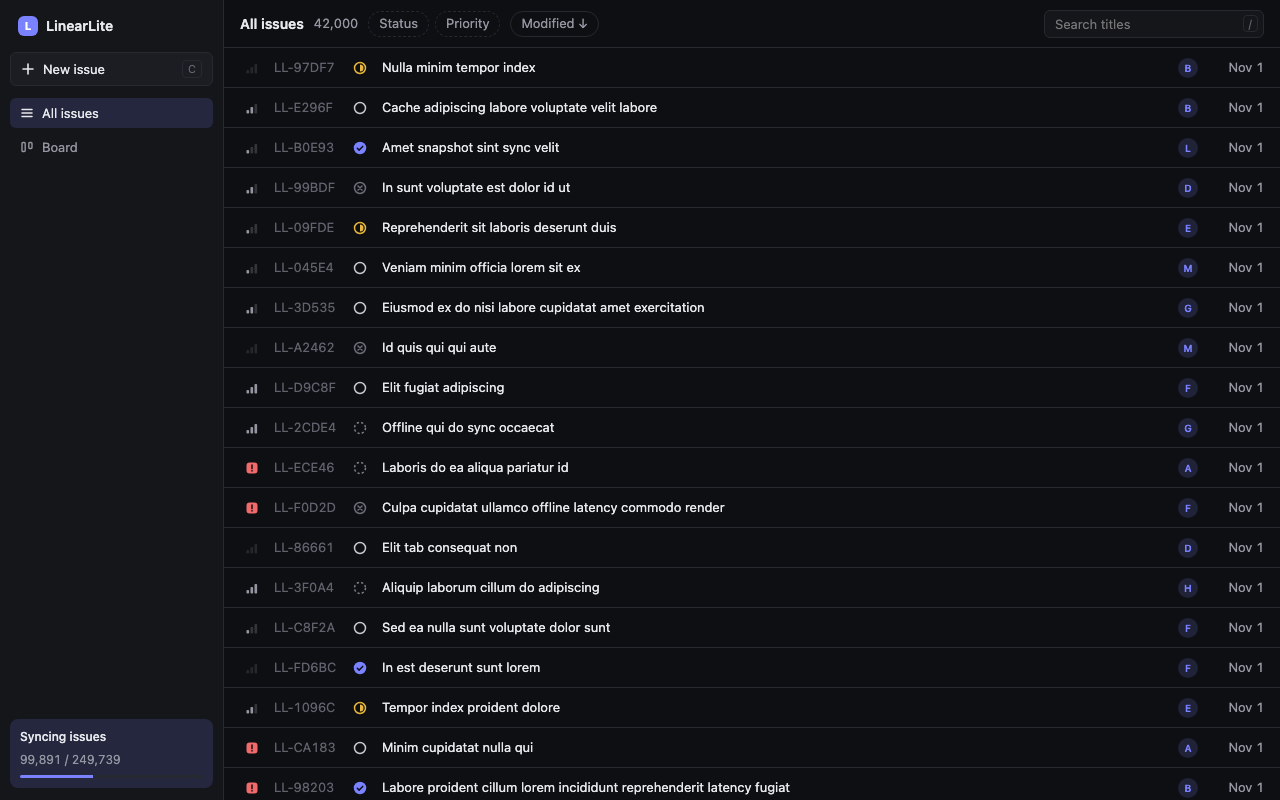
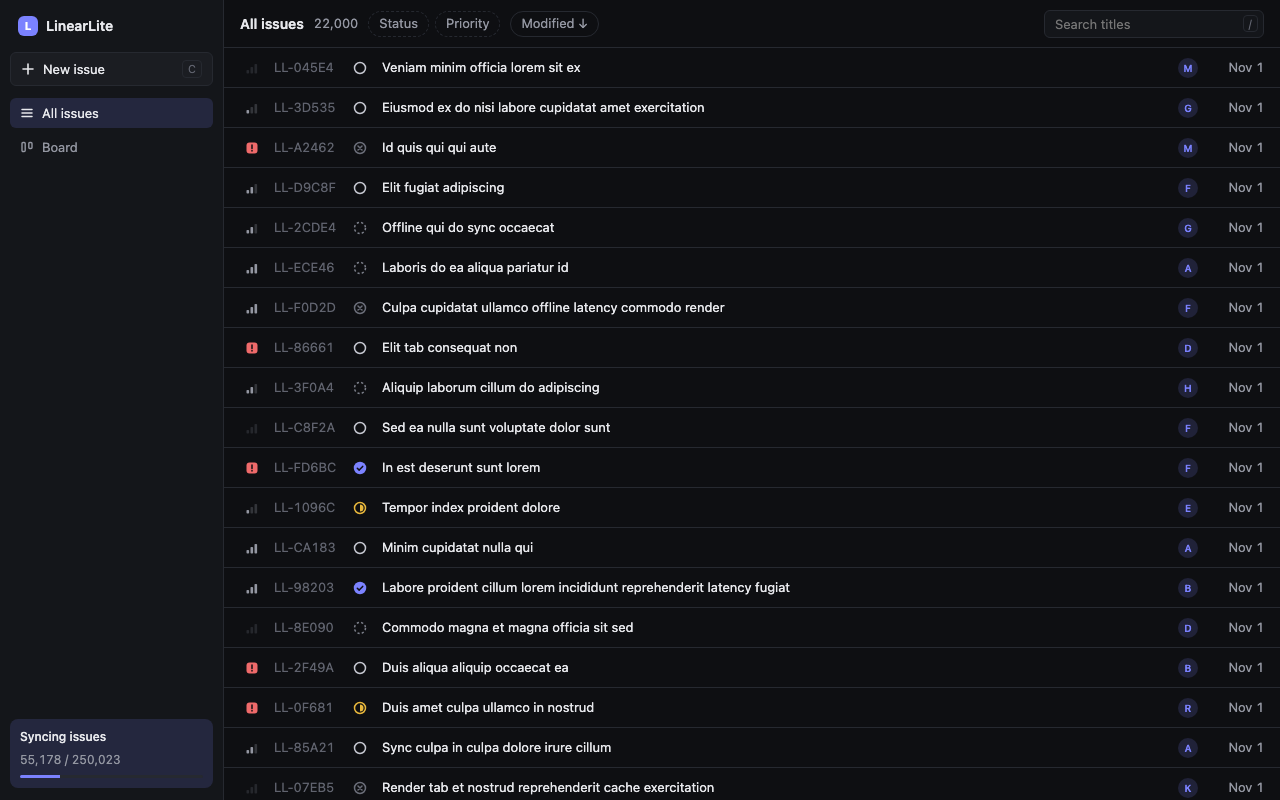
docs(linearlite): describe on-demand issues and measure them against main and SQLite
DESIGN.md states the index set and what each index serves and costs,
how counts, write chunking and deep scroll work, and the 100k results
for main (kv adapter, eager), this design and TanStack's SQLite
collection, with what limits each number and where this design is
slower. The result files hold the raw runs, commands and machine load;
the screenshots are retaken on the production build.

diff --git a/examples/linearlite/DESIGN.md b/examples/linearlite/DESIGN.md
@@ -7,15 +7,17 @@ of 100,000 issues with 0–1 comment each.
 
 ## The shape in one paragraph
 
-kv on OPFS holds the whole replica in every browser. TanStack DB collections are the read model: issue summaries
-are in memory in full, descriptions and comments only while a screen shows them. Every write, a local edit or a
-row from the server, is one kv read-modify-write (`utils.transact`), so there is one write path and one merge
-rule. Each row carries its own unsent edits (`dirty`), which is the "not synced" mark and the conflict guard. The
-outbox is those rows, found by a live query over `dirty` issues and, because bodies and comments load on demand and
-cannot be scanned, by small eager `outbox` marks naming the ones with unsent edits. One tab per browser, elected with Web Locks, talks to the server. The server is SQLite where every
-row carries the global version that last changed it, so "what changed since V" is an index scan, not a log.
+kv on OPFS holds the whole replica in every browser, as `@opfs-lsm/docstore` collections with declared indexes.
+TanStack DB collections are the read model, and every one that holds rows of a stream loads on demand: a screen's
+live queries read the rows they show through those indexes, and nothing else is in memory. Counts are not
+queries over memory either: the list total and the board's column counts count index entries in docstore. Every
+write, a local edit or a row from the server, is one read-modify-write (`utils.transact`), so there is one write
+path and one merge rule. Each row carries its own unsent edits (`dirty`), which is the "not synced" mark and the
+conflict guard, and a `pending: true` that a sparse index lists, so the outbox is a range read. One tab per
+browser, elected with Web Locks, talks to the server. The server is SQLite where every row carries the global
+version that last changed it, so "what changed since V" is an index scan, not a log.
 
-## Why the data is split (measured)
+## Why nothing is eager (measured)
 
 `bench/spike-100k.txt`: five alternating cold opens per side, 100k issues, fresh Chrome process each time.
 
@@ -24,10 +26,11 @@ row carries the global version that last changed it, so "what changed since V" i
 | issue summaries only | 947 ms (776–1052) | 238 MB |
 | summaries + descriptions + 49,734 comments | 1456 ms (1351–5623) | 437 MB |
 
-Bodies and comments are 59 of the 81 MB of JSON, and nobody filters or sorts by them. They stay in kv and load by
-key when a screen opens them. A profile of the summaries-only open shows no single limiter: TanStack ingest and
-BTree index builds (~150 ms), kv's SST merge scan (~85 ms), JSON decode (~74 ms), GC (~50 ms), and ~210 ms waiting
-on OPFS reads.
+An eager collection reads, decodes and indexes every row before the list can paint, and holds them all. A
+profile of the summaries-only open shows no single limiter: TanStack ingest and BTree index builds (~150 ms), kv's
+SST merge scan (~85 ms), JSON decode (~74 ms), GC (~50 ms), and ~210 ms waiting on OPFS reads. Every term grows
+with the replica. On demand, a warm start reads one index page of the list's 100 rows and counts 100,000 index
+entries; see [Measured](#measured).
 
 ## Data
 
@@ -40,10 +43,13 @@ export type PriorityCode = 0 | 1 | 2 | 3 | 4;
 
 /** Field name -> local edit clock of an edit the server has not acknowledged. Absent = clean. */
 export type Clocks = Readonly<Record<string, number>>;
-/** `version` is the server version of the last server state merged in; 0 = never reached the server. */
-export type Synced = { readonly version: number; readonly dirty?: Clocks };
+/**
+ * `version` is the server version of the last server state merged in; 0 = never reached the server.
+ * `pending` is `true` exactly when `dirty` is present: no index can hold an object, a sparse one can hold `true`.
+ */
+export type Synced = { readonly version: number; readonly dirty?: Clocks; readonly pending?: true };
 
-export type Issue = Synced & {               // eager, ~220 B
+export type Issue = Synced & {               // on demand, ~220 B
   readonly id: string; title: string; status: StatusCode; priority: PriorityCode; kanbanorder: string;
   readonly username: string; readonly created: number; modified: number; deleted: boolean;
 };
@@ -54,8 +60,6 @@ export type Comment = Synced & {                                            // o
   readonly created: number; deleted: boolean;
 };
 export type Stream = "issues" | "bodies" | "comments";
-/** Eager, one per body or comment with unsent edits; the row itself still holds `dirty`. */
-export type OutboxMark = { readonly id: string; readonly stream: "bodies" | "comments"; readonly rowKey: string; readonly nonce: string };
 /** One eager row per browser (`id: "sync"`), written by the leader, read by every tab's status bar. */
 export type SyncState = {
   readonly id: "sync"; epoch: string | null; cursors: Record<Stream, number>; head: number;
@@ -75,17 +79,23 @@ land between the read and the write, in this tab or another. Callers never use `
 
 | write | merge function (pure, `src/domain/merge.ts`) |
 |---|---|
-| local edit (`setStatus`, `move`, `rename`, …) | `applyLocal(row, patch, clock)`: patch the fields, stamp `dirty[f] = clock` |
+| local edit (`setStatus`, `move`, `rename`, …) | `applyLocal(row, patch, clock)`: patch the fields, stamp `dirty[f] = clock` and `pending` |
 | server row from a pull | `mergeIncoming(local, incoming)`: drop if `incoming.version <= local.version`; else take incoming, but keep every `dirty` field's local value |
-| push acknowledgment | `mergeIncoming(local, row, ackedClocks)`: a dirty field whose clock equals the acked one is confirmed and cleared; a field edited again in flight stays dirty |
+| push acknowledgment | `mergeIncoming(local, row, ackedClocks)`: a dirty field whose clock equals the acked one is confirmed and cleared; a field edited again in flight stays dirty; `pending` goes with the last dirty field |
 
 Each is idempotent: replaying a page or an ack converges to the same row. So a crash between writing a page and
 advancing its cursor costs one re-pull, and no cross-collection transaction is needed. Deletes are
 `deleted = true` plus `dirty`; the acked tombstone becomes a kv delete.
 
-Hypothesis to check before the UI relies on it: a `transact` from a click shows in the same tab's live query
-within one frame (the adapter applies kv's change event before the promise resolves). If it does not, the
-commands wrap `transact` in a TanStack `createTransaction` for an optimistic overlay.
+A `transact` from a click shows in the same tab's list with no optimistic overlay: edit to live query 3.1 ms
+p50, to DOM 3.5 ms (`visible`, production build, 60 edits).
+
+**Write chunking.** kv caps one write batch at 10,000 ops. A docstore write of a row is one op for the row plus,
+per index, at most a delete of its old entry and a put of its new one, so a row costs at most `1 + 2 × indexes`
+ops. A pulled page of 2,000 rows is merged in slices of `floor(10000 / (1 + 2 × indexes))` rows, each its own
+`transact`: 666 issues (seven indexes), 3,333 bodies (one), 2,000 comments (two). The slice size is read from the
+collection's `indexes`, so adding an index cannot push a page over the cap. Slicing loses nothing a crash could
+not already lose: a merge is idempotent and the cursor advances only after the whole page.
 
 ## Sync
 
@@ -101,24 +111,27 @@ PushOp = { stream, id, fields: Record<string, unknown>, clocks: Clocks, create?:
 - **Leader.** Every tab calls `navigator.locks.request("linearlite:sync", …)` and holds it for its life. The holder
   runs the loop; the next tab takes over from the cursors in kv when it closes. Other tabs only write local edits.
   kv's change feed is the bus between tabs; there is no tab-to-tab messaging.
-- **Loop.** On start, on every SSE hint, on a local edit (a live query over `dirty` rows) and on `online`:
+- **Loop.** On start, on every SSE hint, on a local edit (a live query over `pending` rows) and on `online`:
   push every dirty row (fields = current values of dirty fields; a row with `version 0` pushes all fields with
   `create`), then pull each stream until `more` is false. Push before pull, so acked fields merge before the pull
   brings the same rows. Failure: back off 1 s → 30 s, mark `online: false`.
-- **Outbox marks.** A command writes the mark, then the row. The leader reads the marked rows, pushes them, and
-  removes a mark only if its `nonce` is unchanged, so an edit made while the push was in flight keeps its mark. A
-  mark on a clean row (a crash between the two writes) pushes nothing and is removed.
+- **Outbox.** Issues, bodies and comments each have a sparse `pending` index, and the leader pushes the rows
+  three live queries over `eq(pending, true)` read from it, a range of the unsent rows only. An ack clears just
+  the fields whose clocks it confirms, so an edit made while the push was in flight stays pending. There is no
+  separate outbox collection to keep in step with the rows.
 - **Refused pushes.** A push the server refuses with a 4xx is retried op by op, so one bad op cannot wedge sync. An
   op still refused is dropped: the leader fetches that row from `/api/row` and replaces the local row with it,
   or deletes the local row when the server has none (a refused create). A field edited again while the push was
   in flight keeps its local value and stays dirty, so the next push sends it. It warns in the console.
 - **First sync.** `issues` first, so list and board fill page by page; then `bodies` and `comments` in the
-  background. A detail view opened before its body arrives calls `/api/detail` from its own tab and writes the
-  result with the same `mergeIncoming`.
+  background. An epoch change clears each collection with docstore's `clear`, one catalog write. A detail view
+  opened before its body arrives calls `/api/detail` from its own tab and writes the result with the same
+  `mergeIncoming`.
 - **Pull order on a first sync.** Pages come in version order. The seed stamps versions newest `modified` first,
-  so the first page is the default view's top rows and TanStack's sorted window appends instead of inserting at
-  the front: `issues` caught up in 3.8 s instead of 6.9 s at 100k (`bench/first-sync-order.txt`). A real server's
-  history arrives in write order, oldest first; it would need a bootstrap endpoint that pages by `modified desc`.
+  so the first page is the default view's top rows: the list's window fills from the first slice and then holds
+  its 100 rows, and every later row sorts past it and stays out of memory. A real server's history arrives in
+  write order, oldest first; the window would then take a newer row on most slices, which costs a TanStack
+  update each, not memory.
 - **Page size.** 2,000 rows per pull. 5,000 catches up about 1 s sooner at 100k but blocks the main thread up to
   ~400 ms per page late in the sync; 2,000 keeps each page under ~170 ms (`bench/client-100k.txt`).
 - **Conflicts.** Per field, the last push to reach the server wins. A local unsent edit beats any incoming value
@@ -130,8 +143,9 @@ PushOp = { stream, id, fields: Record<string, unknown>, clocks: Clocks, create?:
 ## Adapter features the app uses (`@opfs-lsm/tanstack-db`)
 
 Every collection is `docstoreCollectionOptions({ collection, syncMode })` over an `@opfs-lsm/docstore` collection,
-keyed by `id`. `issues`, `sync` and `outbox` are eager; `bodies` and `comments` are on demand, and `comments` has a
-docstore index on `issue_id`.
+keyed by `id`. `issues`, `bodies` and `comments` are on demand; `sync` is eager, one row. `issues` sets
+`defaultStringCollation: { stringSort: "lexical" }`, so the title sort reads its index in pages: the index orders
+strings by code point, which agrees with TanStack's lexical compare for the seed's titles.
 
 ```ts
 interface DocstoreCollectionUtils<T> {
@@ -147,9 +161,48 @@ interface DocstoreCollectionUtils<T> {
 ```
 
 On demand: `loadSubset` reads the query's rows through the collection's indexes in one docstore `view`: `eq(id)`
-reads that body, `eq(issue_id, X)` reads the `issue_id` index. A change event commits a document while some loaded
-query matches it. `unloadSubset` drops the rows no other loaded query matches. A `gap` event reloads every loaded
-query.
+reads that document, `eq` and `inArray` on an index's leading fields read one range per value, and an ordered,
+limited query reads the first rows of each range, in pages. A change event commits a document while some loaded
+query keeps it; an ordered window keeps the rows at or before its last row, so the rows a first sync writes past
+the list's window never reach memory. `unloadSubset` drops the rows no other loaded query keeps. A `gap` event
+reloads every loaded query.
+
+### Indexes
+
+```ts
+// src/client/store.ts
+issues: {
+  byModified: { on: ["deleted", "modified"] },
+  byCreated:  { on: ["deleted", "created"] },
+  byTitle:    { on: ["deleted", "title"] },
+  byPriority: { on: ["deleted", "priority", "status"] },
+  byStatus:   { on: ["deleted", "status", "kanbanorder"] },
+  search:     { on: ["deleted", "modified"], text: "title" },
+  pending:    { on: "pending" },
+},
+bodies:   { pending: { on: "pending" } },
+comments: { byIssue: { on: "issue_id" }, pending: { on: "pending" } },
+```
+
+Every list read pins `deleted = false`, so every ordered index leads with `deleted`: the adapter reads an ordered
+window from an index whose leading fields the `where` pins and whose next field is the sort.
+
+| read | index |
+|---|---|
+| list sorted by modified, created or title, either direction, and its tie load (`eq(field, boundary)`) | `byModified`, `byCreated`, `byTitle`; a status or priority filter reads the same pages and filters them |
+| list sorted by priority; a priority filter under that sort (one range per priority) | `byPriority` |
+| list sorted by status; a status filter under that sort; a board column (`status = s`, by `kanbanorder`) | `byStatus` |
+| title search under the default sort | `search`: the entries holding every word of the query, newest first, then `ilike` in memory |
+| title search under another sort | that sort's index, pages filtered by `ilike` |
+| `useIssue(id)`, a detail fetch | the documents by id, no index |
+| unsynced rows | `pending`, sparse: only rows with `pending: true` have an entry |
+| list total, board column counts | `byStatus` per status, `byPriority` per priority and status, `search` for a query |
+
+Each index costs first-sync time and storage. At 100k issues, seven indexes catch `issues` up in 4.2 s and three
+(`byModified`, `byStatus`, `pending`) in 3.3 s, about 240 ms per index (`bench/first-sync-100k.txt`). A missing
+sort index costs more: that sort reads and holds all 100,000 issues, as an eager collection does. So every sort
+keeps its index. Two are candidates to merge: `search` holds an entry per row ordered as `byModified` is, and could
+serve the plain list too if the adapter read a text index without a `match`.
 
 Known, not fixed here: the adapter's `onUpdate` persists the row as the editing tab last saw it, so a tab with a
 stale copy can erase a newer field another tab wrote. This app never calls `collection.update`.
@@ -159,22 +212,87 @@ stale copy can erase a newer field another tab wrote. This app never calls `coll
 - **The URL holds the view.** `?status=1,2&priority=0&q=sync&sort=modified&dir=desc` via `validateSearch`.
   List and board share it. Back and forward restore a view; a link reproduces it.
 - **List.** `@tanstack/react-virtual` over a windowed live query (`orderBy` + `limit`, moved with
-  `utils.setWindow`, TanStack DB's live-query API, not the adapter's) and a `count` query with the same `where` for the scroll height. BTree indexes on `status`,
-  `priority`, `modified`, `created`, `kanbanorder`. Title search is `ilike` in memory; a query holding `%` or `_` uses a filter function instead, since `ilike` has no escape.
+  `utils.setWindow`, TanStack DB's live-query API, not the adapter's). No TanStack index: the collection holds a
+  few hundred rows. Title search is `ilike`; a query holding `%` or `_` uses a filter function instead, since
+  `ilike` has no escape.
+- **Counts.** The scroll height and the toolbar total come from `countTotal` and the board's column counts from
+  `countByStatus` (`src/client/counts.ts`), which count docstore index entries and read no document. A search
+  counts the documents the `search` index matches whose title contains the query, so the total agrees with the
+  list's `ilike`; a query of one plain word is counted from the index entries alone, which is exact for titles
+  stored in NFC, as typed text is (the index normalizes, `ilike` does not). `useIssueRead` reads again after
+  every change to issues, one read at a time, and waits four times the last read's duration, at least 250 ms,
+  before the next. A first sync changes issues every few milliseconds, and counting 100,000 entries then takes
+  up to a fifth of the main thread instead of half. The counts depend on the filter and the query, not the
+  sort, so a sort change keeps them.
+- **Deep scroll.** TanStack loads an ordered window without an index on its field as a prefix: a jump to row
+  50,000 asks for the first 50,100 rows, and the adapter reads and parses them: 846 ms the first time, one frame
+  after that, since the rows stay in memory, also once the list scrolls back to the top. The list does not work
+  around it; see [Measured](#measured).
 - **Scroll.** The list keeps its scroll position per filter for the session, in memory, not in the URL, so Back
   from an issue lands where the user left.
-- **Board.** Five column queries ordered by `kanbanorder`, windows growing as a column scrolls, counts from one
-  `groupBy(status)` query. A drop writes `status` and a fractional key between its neighbours in one `transact`.
-- **Detail.** The summary is in memory, so the title and fields paint with the route. Description and comments
-  load from kv on demand (a few ms) and, before backfill, from `/api/detail`.
+- **Board.** Five column queries ordered by `kanbanorder`, windows growing as a column scrolls, counts from
+  `countByStatus`. A drop writes `status` and a fractional key between its neighbours in one `transact`.
+- **Detail.** The summary is a live query by id: from the list's rows when they hold it, else one document
+  read. Description and comments load from kv on demand (a few ms) and, before backfill, from `/api/detail`.
 - **Feedback.** A dot on rows with `dirty`; a status bar with `Syncing 42,000 / 100,000`, `Offline · 12 unsynced`
   or nothing when idle. Shortcuts: `c` new issue, `/` search, `j`/`k` move in the list, `Enter` opens, `Esc` back.
 
-## Measuring
+## Measured
 
-`bench/spike.sh` ran against a `/spike` route that has since been removed (last at commit f2a16a8); check that commit out to rerun it.
+`node bench/client.ts <origin> <scenario>` drives headless Chrome against a production build (`vite build`,
+`vite preview`) and a server seeded with `pnpm seed 100000`; `bench/ui-latency.js` times the list from the DOM alone
+and counts a step only once the rows and the toolbar total are right, so one script times every build. Five runs per
+build, one per build per round under a machine-wide lock; p50 (min–max) in ms. A is this app before issues moved to
+docstore indexes (a631954, eager issues through the kv adapter), B this design, C the same app on TanStack DB's
+SQLite persisted collection (`spike/linearlite-sqlite`), eager and on demand. The interaction rows for A and B are
+round 2 of `bench/ui-latency-100k.txt`, C's are round 1. Raw lines, commands and machine load are in
+`bench/client-100k-prod.txt` and `bench/ui-latency-100k.txt`; what each read costs inside B is at the end of the
+latter. Interaction times end at the next painted frame, so they move in ~16.7 ms steps.
 
-`bench/` drives Chrome as `bench/spike.sh` does, against a seeded server, at 10k and 100k issues, 5 alternating
-runs, with the limiter named per number: first sync to first rows and to `issues` caught up, warm start to first
-rows (offline), filter and sort change to rows, title search keystroke to rows, detail open, edit to visible in a
-second tab, edit to acked, and tab heap.
+| | A | B | C eager | C on demand | what limits B |
+|---|---|---|---|---|---|
+| warm start, first rows | 886 (876–898) | 106 (105–107) | 1,091 | 2,056 | main thread busy 89 of 116 ms in one trace (`bench/trace-warm.ts`, unminified build): opening kv and docstore and reading the first page 38, script 28, React 11 |
+| warm start, rows and total | 888 (878–899) | 150 (150–152) | 1,093 | 2,056 | the total counts 100,000 `byStatus` entries, 32 ms |
+| heap after warm start, MB | 139 | 25 | 119 | 134 | |
+| storage, MB | 233 | 156 | 183 | 208 | |
+| first sync, first rows | 139 (133–151) | 134 (124–141) | 212 | 212 | the first pull page |
+| first sync, issues caught up | 2,417 (2,389–2,497) | 3,935 (3,846–4,249) | 9,940 | 11,121 | the index entries: kv's write path and docstore's index planning (`bench/first-sync-100k.txt`) |
+| first sync, comments caught up | 5,713 (5,685–5,841) | 7,814 (7,750–8,190) | 13,345 | 14,474 | the same, for three streams |
+| heap after first sync, MB | 322 (157–326) | 22 (12–38) | 181 | 190 | |
+| status chip on | 28.3 (27.7–29.3) | 29.3 (19.9–30.3) | 42.6 | 1,088 | reads take ~8 ms of it: 431 documents to fill the window, 20k entries counted |
+| status chip off | 96.1 (95.4–99) | 48.8 (47.2–59.5) | 190 | 146 | counting 100,000 entries, 32 ms |
+| priority filter on | 27.1 (27–28.1) | 33 (29.5–45.5) | 39.9 | 1,109 | 585 documents read to fill the window (3 ms), 20k entries counted (7 ms) |
+| sort modified ↔ created | 14.5 (13.5–15) | 14 (13.8–14.3) | 13.7 | 14 | one frame |
+| sort modified → priority | 706 (700–709) | 760 (755–777) | 73.4 | 73.5 | TanStack loads the ~19,700 issues tied with the window's last row (89 ms to read) and takes them in |
+| search keystroke (80 ms debounce) | 144 (142–145) | 123 (117–138) | 197 | 1,610 | the debounce, then the `search` entries for the word |
+| list → detail, title painted | 14.5 (13.9–15.7) | 16.6 (16–17.9) | 59.6 | 127 | not the read: the live query by id finds the list's row at once (under 1 ms) |
+| jump to row 5,000, first | 37.5 (37.1–58.7) | 158 (152–169) | 42.3 | 994 | TanStack asks for the first 5,100 rows; reading them takes 26 ms |
+| jump to row 50,000, first | 343 (318–346) | 846 (817–894) | 198 | 1,188 | TanStack asks for the first 50,100 rows; reading them takes 266 ms, TanStack takes in the rest |
+| jump to row 50,000, later | 63.3 (60–87.1) | 15.3 (14.4–17.7) | 41.7 | 45.4 | one frame: the rows stayed in memory |
+| heap after the interactions, MB | 161 | 79 | 141 | 153 | the 50,058 rows the deep jump loaded |
+
+Edits on B (`tabs`, `users`, `offline`, `visible`) all pass: an edit in one tab reaches the other tab's list in
+2.2 and 1.8 ms p50 (each direction, n=10); another user's edit in 7 ms through the server; five edits made offline
+are acked 330 ms after reconnecting; a tab's own edit reaches its DOM in 3.5 ms.
+
+Where B is slower than A, and whose cost it is:
+
+- **First sync**, 1.5 s later for issues and 2.1 s for comments. Each issue writes seven keys instead of one (the
+  document and an entry in six indexes; `pending` has none for a synced row), and each key is appended to kv's
+  WAL, applied to its memtable and posted to other tabs, and the next merge reads the stored row back to plan the
+  index changes. kv's broadcast posts every op even with no other tab open; that is
+  kv's to change. Fewer indexes buy back ~240 ms each at the price of a sort that holds every issue.
+- **Sort by priority or status**, 760 ms against 706 (and C's 73, which holds all 100,000 rows under a TanStack
+  BTree index). Every issue in the window shares the priority of its last row, and TanStack then loads every row
+  with that value, with no limit: 19,700 issues. TanStack owns the load; LinearLite could avoid it by sorting on a
+  key that is unique per issue (priority, then modified, in one field) at the cost of one more index per sort.
+- **First jump deep into the list**, 158 ms to row 5,000 and 846 ms to row 50,000, against 38 and 343. TanStack
+  loads a window without a TanStack index on the sort field as a prefix (offset + limit rows), and the adapter
+  reads and parses all of them, then TanStack keeps them after the list scrolls back. A read that skips index
+  entries without reading their documents (docstore) and a load that asks only for the window (TanStack) would
+  make the first jump cost what a later one does.
+- **Priority filter**, 33 ms against 27: B reads and counts what A already holds (above).
+- **List → detail** is a wash: 16.6 against 14.5 ms here, 14.6 against 23.1 ms in round 1.
+
+`bench/spike.sh` ran against a `/spike` route that has since been removed (last at commit f2a16a8); check that
+commit out to rerun it.

diff --git a/docs/verification.md b/docs/verification.md
@@ -27,6 +27,7 @@ Run every row that matches the diff. When several rows match, run `formal:kv`, t
 | In-page `EngineHost` | `drive two-tab-local`. |
 | `packages/docstore/src`, or a kv change claimed to speed up documents | `drive bench table/`. For a performance claim, run it with `--reps 5` before and after, then `node bench/cli.ts compare`. |
 | `packages/tanstack-db/src` | `pnpm --filter @opfs-lsm/tanstack-db test`, with `TSDB_DIFF_RUNS=2000` after a change to the planner or the on-demand run. For a performance claim, `drive bench tanstack/` with `--reps 5` before and after, then `node bench/cli.ts compare`. |
+| `examples/linearlite` | `pnpm --filter @opfs-lsm/example-linearlite test`, `check` and `build`. For a change to its reads, counts or sync, `node examples/linearlite/bench/client.ts <origin> warm ui first-sync` against a production build (`vite build`, `vite preview`) seeded with 100k issues, and `tabs users offline visible` against a copy of that server database. For a performance claim, 5 interleaved runs before and after (`examples/linearlite/DESIGN.md`, Measured). |
 | A decoder or the on-disk format: SST (`sst.ts`, `sst-reader.ts`, `lz4.ts`, `sst.rs`, and the merge session that reads runs, `merge.rs`), manifest (`generation.ts`), WAL rows (`decodeOps`), or `recover.ts` | `pnpm test` and `cargo test -p engine-core`, then each cargo fuzz and Jazzer.js target for 10 minutes (see [Fuzz the decoders](#fuzz-the-decoders)) |
 | Any TypeScript behavior | `pnpm test` |
 | Any TypeScript or JavaScript source, including a removed export | `pnpm static` (oxlint, then `fallow dead-code`) |
